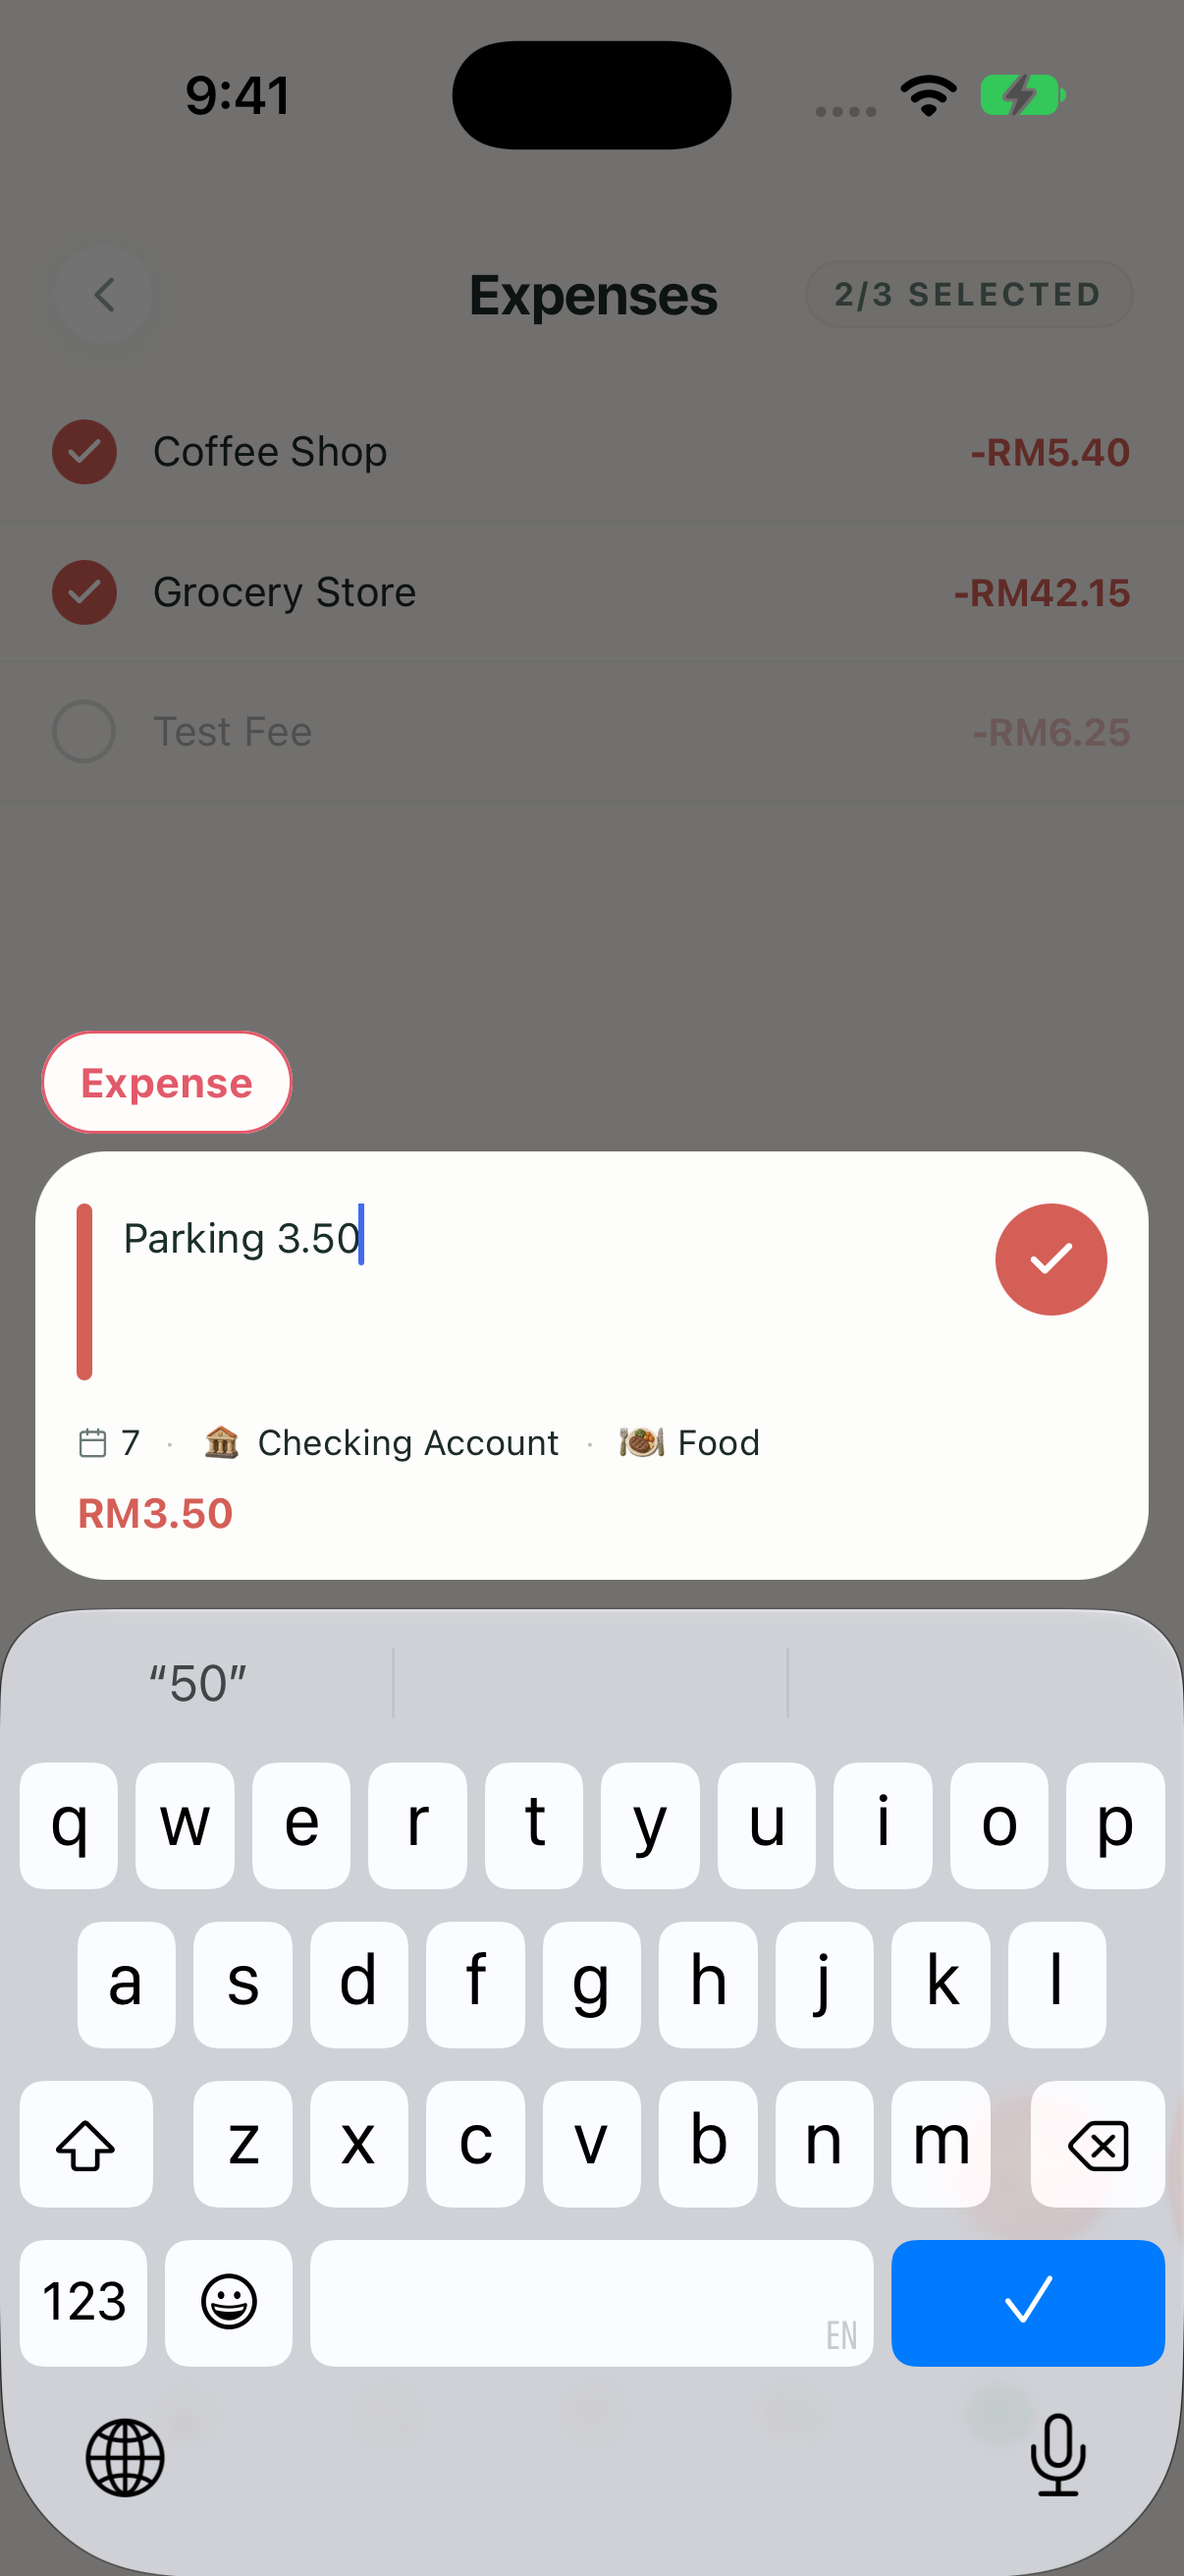
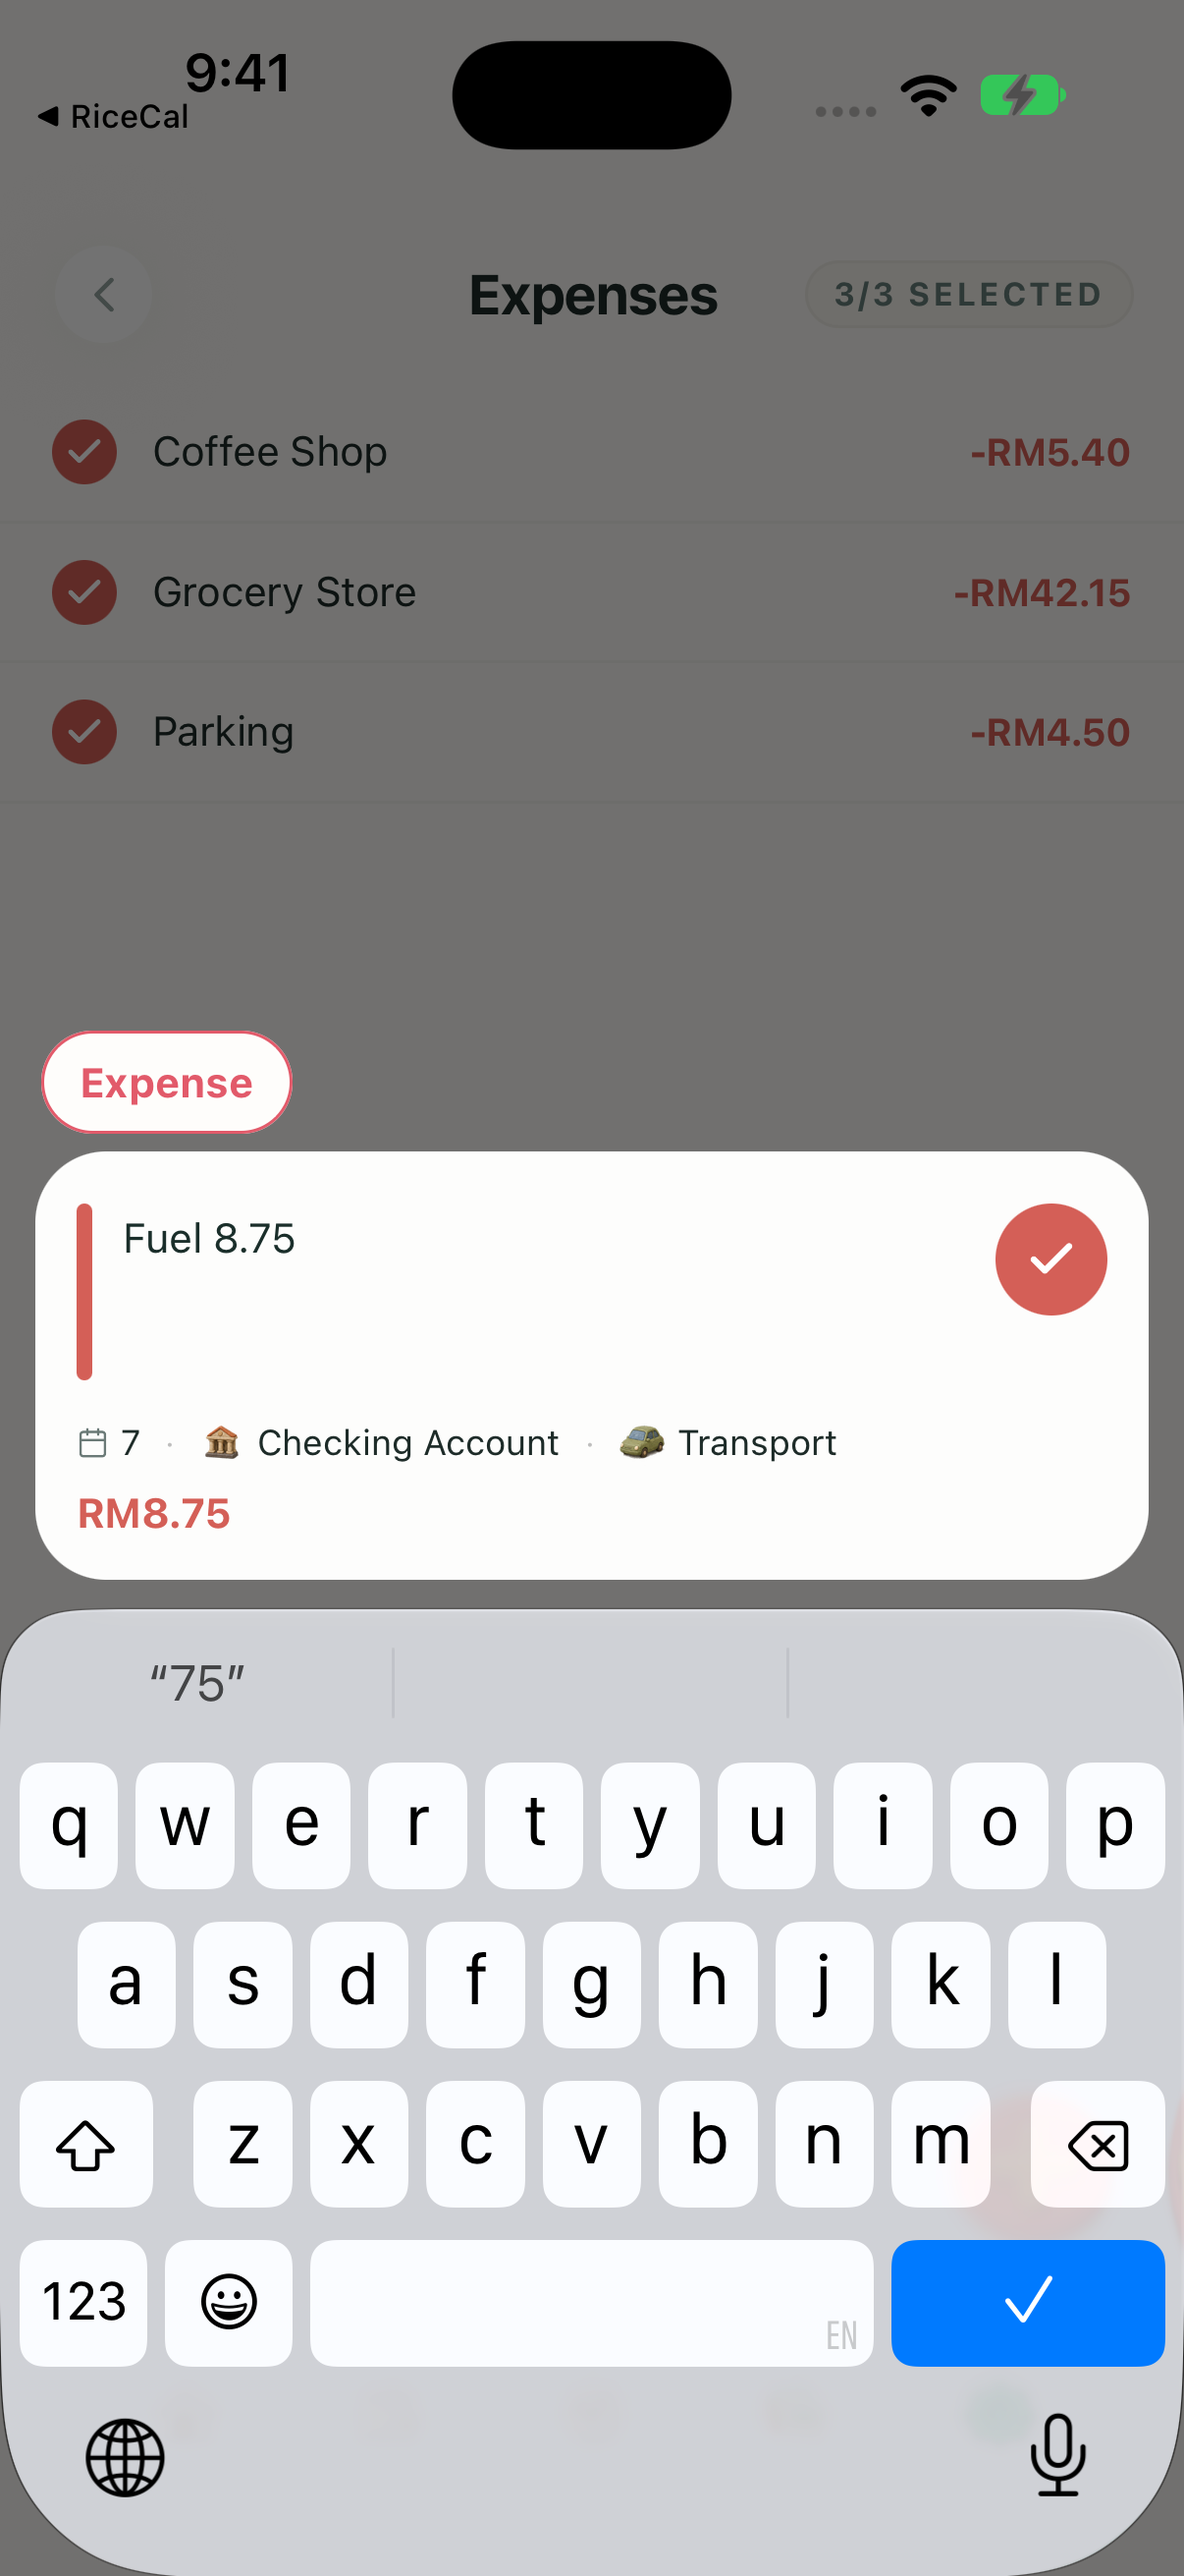
Lock statement quick entry to linked account

diff --git a/features/transactions/components/QuickAddSheet.tsx b/features/transactions/components/QuickAddSheet.tsx
@@ -60,6 +60,8 @@ interface QuickAddSheetProps {
   categories: Category[];
   transactions: Transaction[];
   initialAccountId?: string;
+  /** Keep quick entry on the account already linked to a statement. */
+  lockedAccountId?: string;
   initialType?: TransactionType;
   /** Keep quick entry on one transaction type, as in statement review. */
   lockedType?: 'expense' | 'income';
@@ -419,6 +421,7 @@ export function QuickAddSheet({
   categories,
   transactions,
   initialAccountId,
+  lockedAccountId,
   initialType,
   lockedType,
   fixedCurrency,
@@ -700,7 +703,7 @@ export function QuickAddSheet({
       : null;
   }, [accounts, historyInference]);
 
-  const effectiveAccountId = accountId ?? inferredAccountId ?? defaultAccountId;
+  const effectiveAccountId = lockedAccountId ?? accountId ?? inferredAccountId ?? defaultAccountId;
 
   const manualCategoryId = manualCategoryByType[type] ?? null;
   const activeCategoryId = manualCategoryId ?? inferredCategoryId ?? fallbackCategory?.id ?? null;
@@ -823,12 +826,16 @@ export function QuickAddSheet({
           manualNoteAnchorRef.current = suggestion.trim();
           setManualCategoryByType((prev) => ({ ...prev, [type]: fields!.categoryId }));
         }
-        if (fields.accountId && accounts.some((account) => account.id === fields.accountId)) {
+        if (
+          !lockedAccountId &&
+          fields.accountId &&
+          accounts.some((account) => account.id === fields.accountId)
+        ) {
           setAccountId(fields.accountId);
         }
       }
     },
-    [accounts, text, type],
+    [accounts, lockedAccountId, text, type],
   );
 
   const refocusInput = useCallback(() => {
@@ -838,11 +845,15 @@ export function QuickAddSheet({
     setTimeout(focus, 500);
   }, []);
 
-  const openPicker = useCallback((which: 'date' | 'category' | 'account') => {
-    void triggerHaptic('selection');
-    Keyboard.dismiss();
-    setActivePicker(which);
-  }, []);
+  const openPicker = useCallback(
+    (which: 'date' | 'category' | 'account') => {
+      if (which === 'account' && lockedAccountId) return;
+      void triggerHaptic('selection');
+      Keyboard.dismiss();
+      setActivePicker(which);
+    },
+    [lockedAccountId],
+  );
 
   const closePicker = useCallback(() => {
     setActivePicker(null);
@@ -1160,6 +1171,7 @@ export function QuickAddSheet({
                   <Text style={styles.summarySep}>·</Text>
                   <Pressable
                     onPress={() => openPicker('account')}
+                    disabled={!!lockedAccountId}
                     style={styles.summarySegmentFlexible}
                     hitSlop={6}
                   >
@@ -1290,7 +1302,7 @@ export function QuickAddSheet({
       />
 
       <AccountPickerSheet
-        visible={activePicker === 'account'}
+        visible={!lockedAccountId && activePicker === 'account'}
         accounts={accounts}
         accountGroups={accountGroups}
         selectedAccountId={effectiveAccountId}

diff --git a/features/settings/screens/StatementImportScreen.tsx b/features/settings/screens/StatementImportScreen.tsx
@@ -1293,6 +1293,7 @@ export function StatementImportListScreen({
             categories={categories}
             transactions={recordedTransactions}
             initialAccountId={defaultAccountId ?? undefined}
+            lockedAccountId={defaultAccountId ?? undefined}
             initialType={section}
             lockedType={section}
             fixedCurrency={currency}
